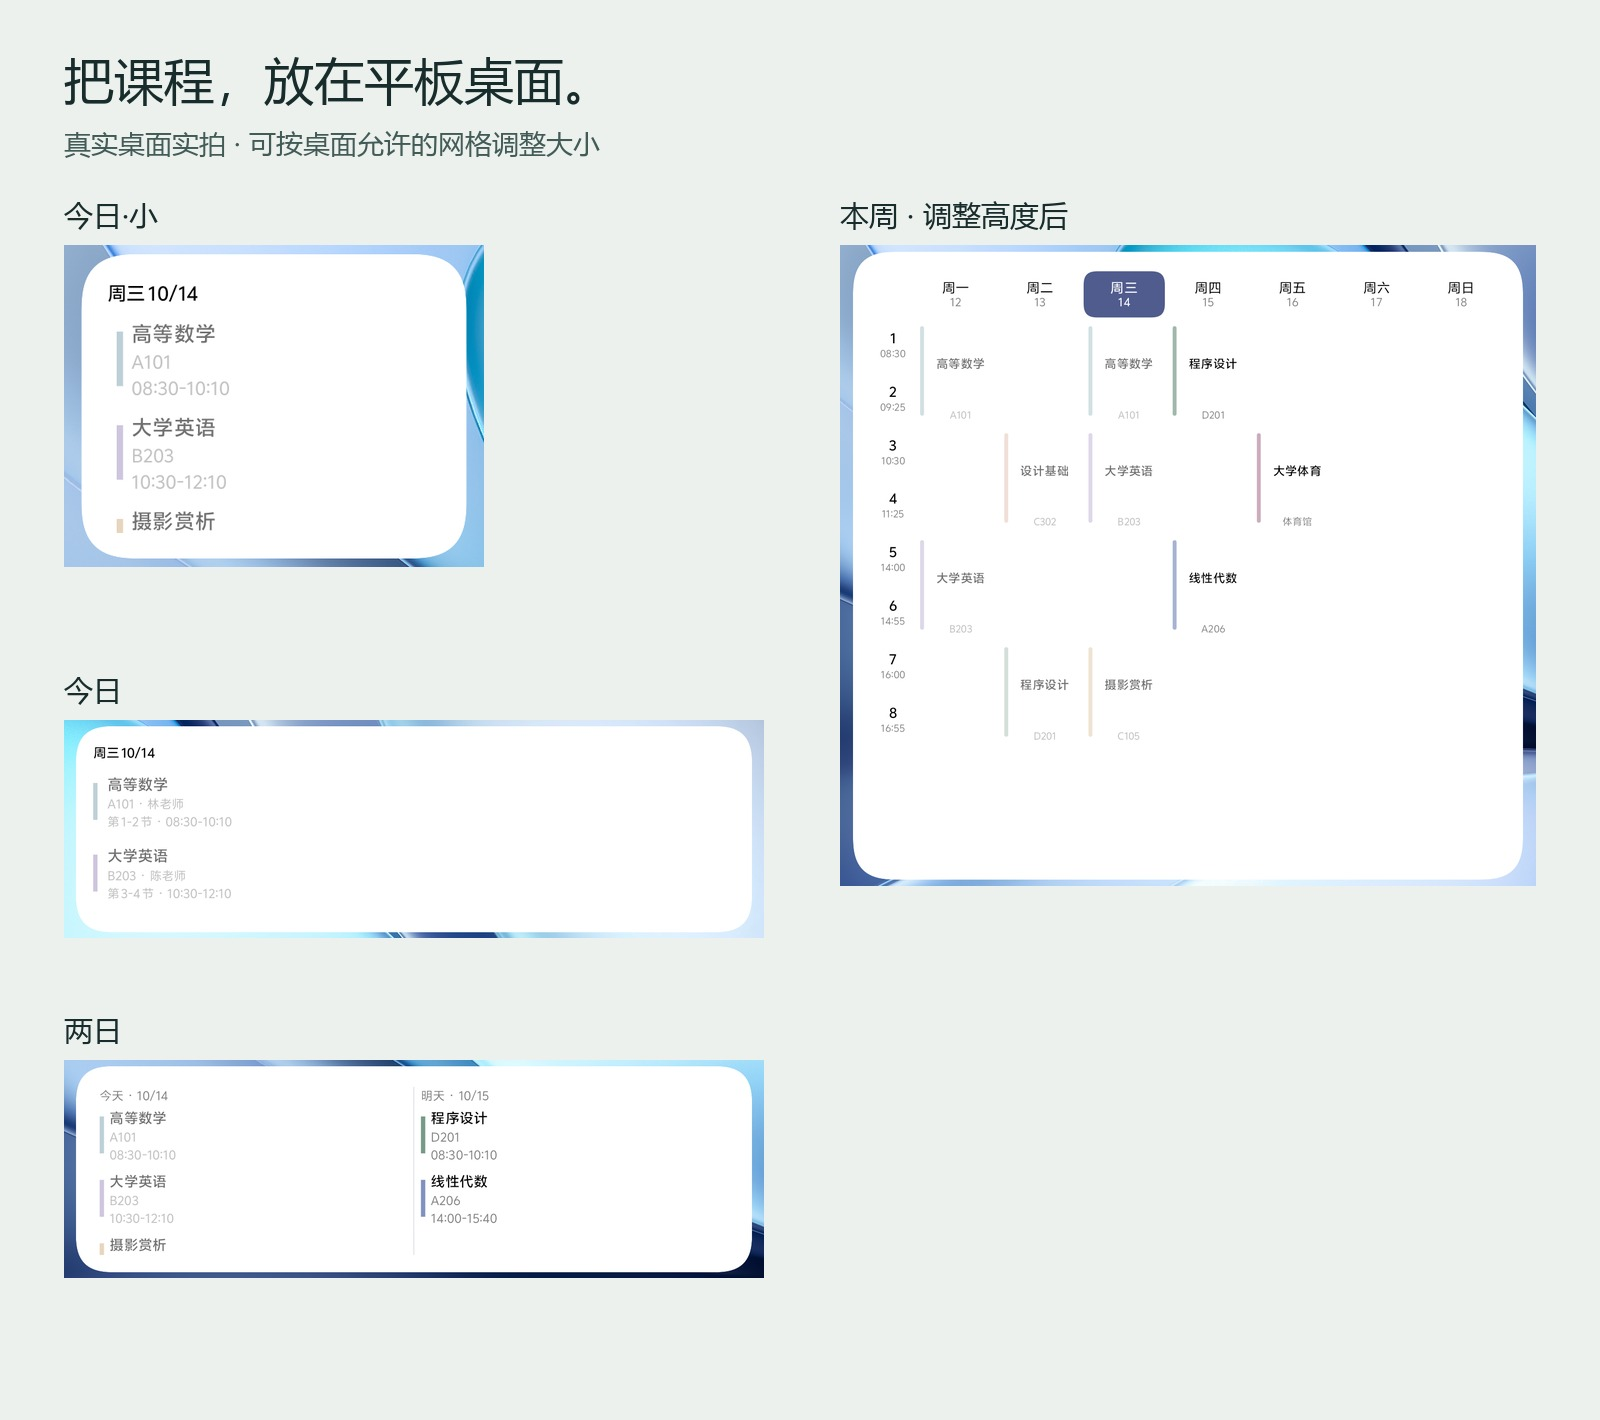
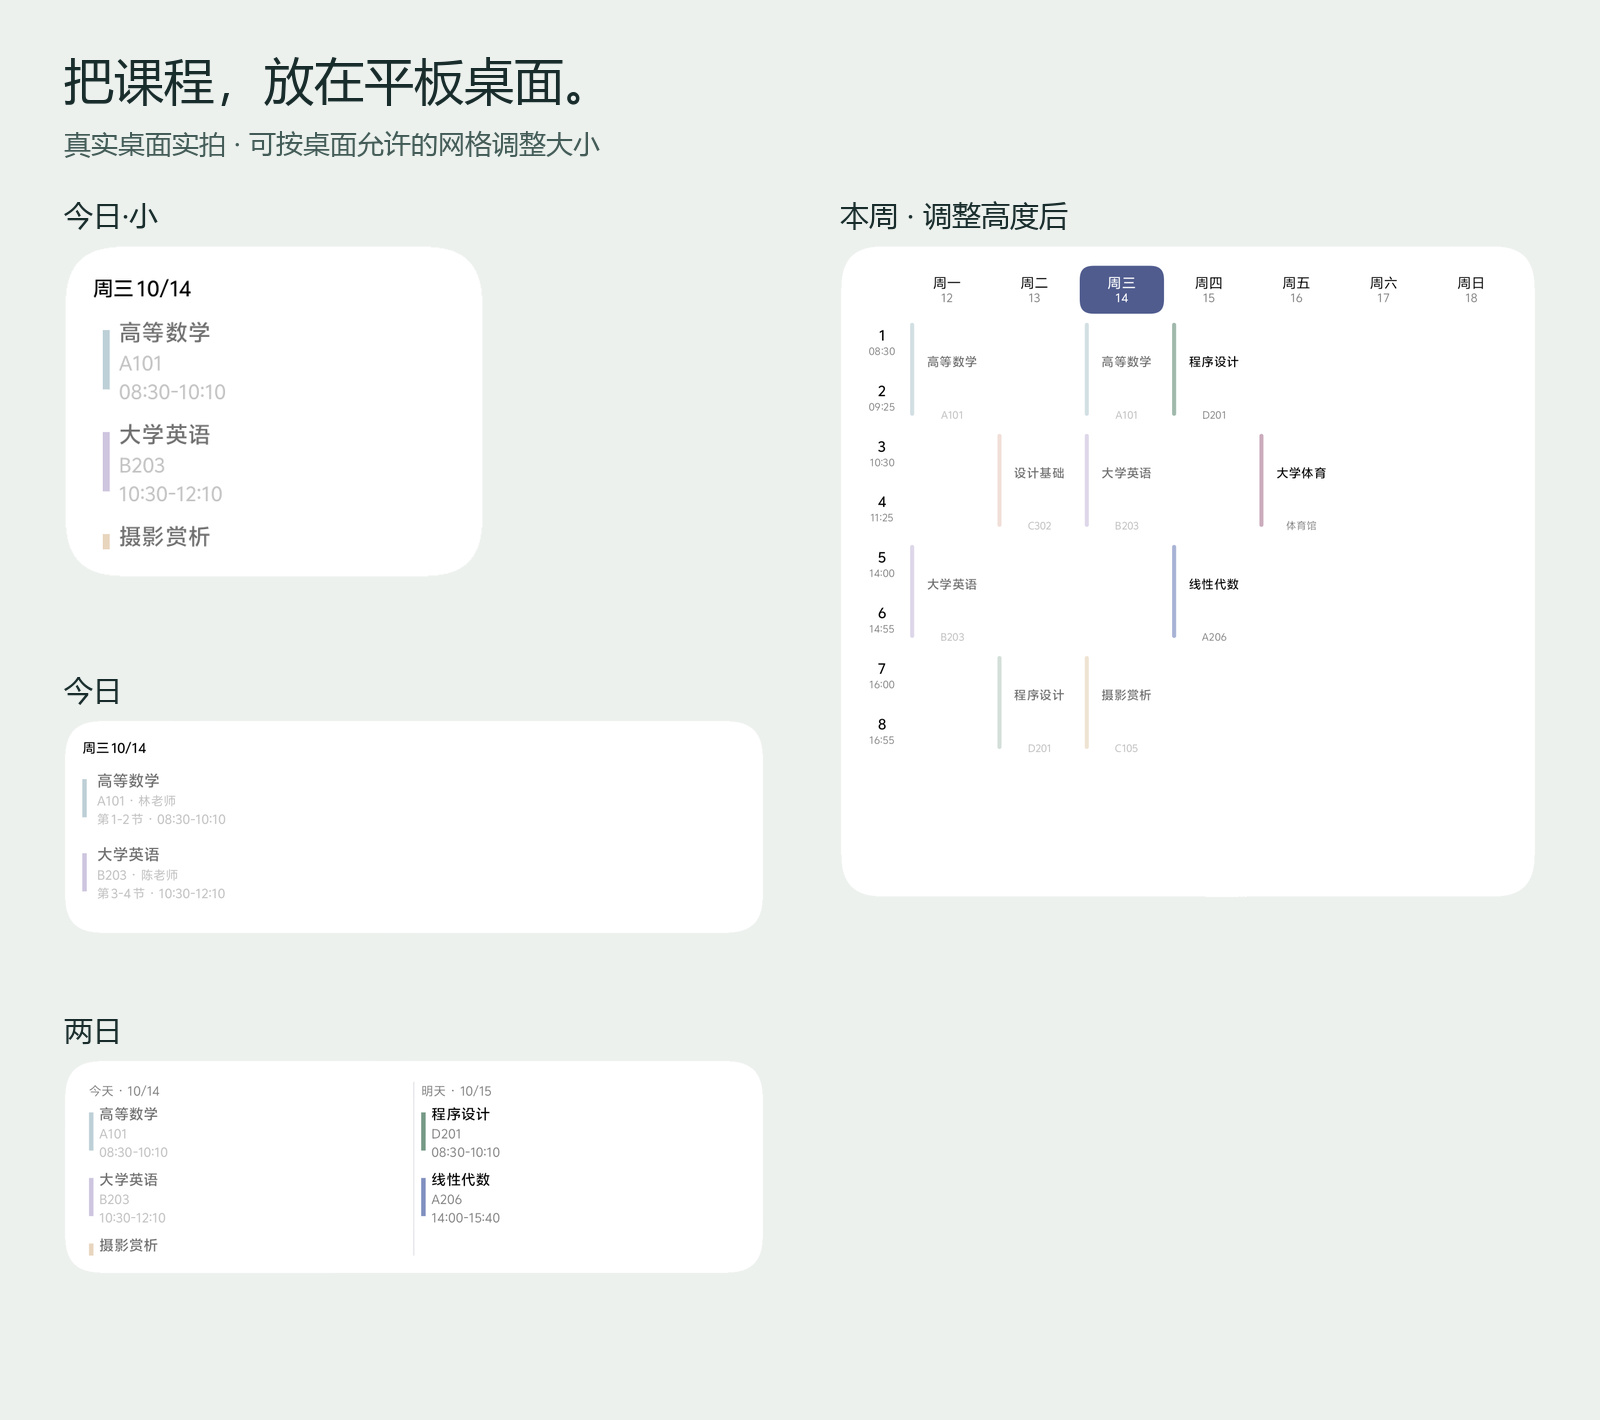
docs: refresh promo film and clean widget showcase crops

diff --git a/readme/build_widget_showcase.py b/readme/build_widget_showcase.py
@@ -1,0 +1,73 @@
+"""Remove launcher wallpaper outside real widget outlines; rebuild README sheets.
+
+Input is the eight explicitly named widget crops in media/v0.1.1.
+Only alpha and the outer transparent margin change; widget RGB is preserved.
+Run after build_showcase.py to keep both workflows consistent.
+Requires Pillow, numpy and opencv-python.
+"""
+from pathlib import Path
+from PIL import Image, ImageDraw, ImageFont, ImageFilter
+import cv2
+import numpy as np
+
+ROOT = Path(__file__).parent / 'media' / 'v0.1.1'
+NAMES = ['widget-small', 'widget-today', 'widget-two-day', 'widget-week',
+         'tablet-widget-small', 'tablet-widget-today',
+         'tablet-widget-two-day', 'tablet-widget-week']
+
+
+def isolate(path):
+    image = Image.open(path).convert('RGBA')
+    # Already processed crops keep their exact alpha; this is idempotent.
+    if image.getchannel('A').getextrema()[0] < 255:
+        return
+    rgb = np.asarray(image)[:, :, :3]
+    level = 255 if path.name.startswith('tablet-') else 219
+    delta = np.abs(rgb.astype(np.int16) - level).max(axis=2)
+    core = np.uint8(delta <= 4) * 255
+    contours, _ = cv2.findContours(core, cv2.RETR_EXTERNAL, cv2.CHAIN_APPROX_SIMPLE)
+    contour = max(contours, key=cv2.contourArea)
+    assert cv2.contourArea(contour) > image.width * image.height * .65, path
+    alpha = np.zeros(core.shape, dtype=np.uint8)
+    cv2.drawContours(alpha, [contour], -1, 255, cv2.FILLED)
+    # Slight inset removes wallpaper-contaminated antialiasing at the old edge.
+    alpha = cv2.erode(alpha, np.ones((3, 3), np.uint8), borderType=cv2.BORDER_CONSTANT, borderValue=0)
+    mask = Image.fromarray(alpha).filter(ImageFilter.GaussianBlur(.5))
+    image.putalpha(mask)
+    image.crop(mask.getbbox()).save(path, optimize=True)
+
+
+def sheet(name, title, subtitle, items, height):
+    canvas = Image.new('RGB', (1600, height), '#edf1ee')
+    draw = ImageDraw.Draw(canvas)
+    font = lambda size: ImageFont.truetype('C:/Windows/Fonts/msyh.ttc', size)
+    draw.text((64, 46), title, font=font(50), fill='#172c2b')
+    draw.text((64, 125), subtitle, font=font(27), fill='#425b56')
+    for filename, label, x, y, width in items:
+        image = Image.open(ROOT / (filename + '.png')).convert('RGBA')
+        image = image.resize((width, round(image.height * width / image.width)), Image.Resampling.LANCZOS)
+        assert y + image.height <= height - 30
+        draw.text((x, y - 50), label, font=font(29), fill='#172c2b')
+        canvas.paste(image, (x, y), image)
+    canvas.save(ROOT / (name + '.jpg'), quality=95, subsampling=0, optimize=True)
+
+
+def main():
+    for name in NAMES:
+        isolate(ROOT / (name + '.png'))
+    sheet('widgets', '不用打开 App，也能心中有数。',
+          '四种桌面小组件 · vivo 手机实际桌面截图', [
+              ('widget-small', '今日·小', 214, 245, 400),
+              ('widget-today', '今日', 64, 865, 700),
+              ('widget-two-day', '两日', 840, 245, 696),
+              ('widget-week', '本周', 840, 675, 696)], 1460)
+    sheet('tablet-widgets', '把课程，放在平板桌面。',
+          '真实桌面实拍 · 可按桌面允许的网格调整大小', [
+              ('tablet-widget-small', '今日·小', 64, 245, 420),
+              ('tablet-widget-today', '今日', 64, 720, 700),
+              ('tablet-widget-two-day', '两日', 64, 1060, 700),
+              ('tablet-widget-week', '本周 · 调整高度后', 840, 245, 696)], 1420)
+
+
+if __name__ == '__main__':
+    main()

diff --git a/readme/build_showcase.py b/readme/build_showcase.py
@@ -3,7 +3,7 @@
 Usage: python readme/build_showcase.py CAPTURE_DIRECTORY
 Never glob the input directory: it may contain private diagnostic screenshots.
 Only outer system bars are cropped; the application UI is never repainted.
-Requires Pillow. Original captures remain outside the repository.
+Requires Pillow, numpy and opencv-python. Original captures remain outside the repository.
 """
 from pathlib import Path
 import sys
@@ -106,3 +106,7 @@ if tablet.exists():
         d.text((x,y-50),label,font=font(29),fill='#172c2b')
         canvas.paste(im.resize((w,round(im.height*w/im.width)),Image.Resampling.LANCZOS),(x,y))
     canvas.save(output/'tablet-widgets.jpg',quality=92,optimize=True)
+
+# Apply the same contour cleanup after any fresh capture rebuild.
+from build_widget_showcase import main as build_widget_showcase
+build_widget_showcase()

diff --git a/readme/media/v0.1.1/README.md b/readme/media/v0.1.1/README.md
@@ -8,11 +8,13 @@
 - 平板：vivo PA2553，Android 16，2800×1968 / 1968×2800，拍摄版本 0.1.1-preview。横竖屏与四种组件均为实体设备，不是模拟器。另存深色横竖屏原图，供查看细节。
 - 示例课表：独立虚构的“秋日校园”，16 周、12 条课程安排；名称、教师、教室均为演示数据。未公开真实教务账号或个人课表。
 - 手机截图裁切状态栏与底部系统手势区域，保留应用内容；拼版标题位于截图之外。原始私人设备截图不进入仓库。
-- 四种组件为手机实际桌面上的手动添加实例，裁切组件矩形范围，保留圆角及角落实际桌面背景。当前可见节次受宿主大小影响，并非全学期课程截图。
+- 四种组件为手机实际桌面上的手动添加实例，沿真实组件外轮廓保留圆角，外部桌面壁纸已设为透明；组件内部像素不重绘。当前可见节次受宿主大小影响，并非全学期课程截图。
 - 背景为本地程序绘制的原创渐变光影，经应用真实图片选择与背景调节后截图；没有后期向界面粘贴背景。展示参数为浓淡 51%、模糊 0%、色彩 100%、位置居中。
 - `brand.gif` 从实际连续点击的 10 秒录屏中选取前 5 秒，裁切品牌卡周围区域并缩放、转为 16 fps GIF；不代表应用的实际帧率。
 - 手机拍摄后恢复原课表选择、浅色、彩色填充、无图片背景；演示课表暂保留以便平板拍摄和复核。
 - 平板拍摄后恢复原课表选择、浅色色条、自动旋转。拍摄时临时拉高本周组件以展示全部 8 节，之后恢复原宿主边界；未删除任何原有绑定。示例课表在两台设备中独立保留，可自行删除。
-- 两段既有品牌影片继续保留原版，包含历史界面与概念动效，不冒充本次实录。
+- README 影片已于 2026-10-22 替换为最终 81.7 秒、16:9 横版宣传片。它使用后续新采集的产品素材与概念动效，与本目录 2026-10-14 的截图批次分开记录，不冒充本批实录。
 
 `readme/build_showcase.py` 使用明确的截图文件白名单生成拼版，避免将整个拍摄目录或私人诊断图复制进仓库。所有展示只证明截图中的布局与功能，不等同于全部设备兼容性验收。
+
+2026-10-22 组件裁切修正：手机与平板各四张组件图按实际外轮廓生成透明蒙版，仅去除圆角外壁纸及边缘混色，并重新生成 widgets.jpg / tablet-widgets.jpg。组件内部原始 RGB 未改变；手机今日列表底部的原生渐隐保持原样，不伪造隐藏内容。readme/build_widget_showcase.py 可单独运行，build_showcase.py 末尾也调用此步骤，避免重新生成时恢复旧问题。

diff --git a/readme/README.en.md b/readme/README.en.md
@@ -9,17 +9,13 @@ Your timetable should give you clarity at a glance. See the shape of your week, 
 
 ## See Classy in motion.
 
-Two cuts. One idea: make time yours. Press play. Sound on.
+All this for a timetable? Sound on — see another side of Classy.
 
-### Brand film · 52 seconds
+### Full promotional film · 81.7 seconds
 
-https://github.com/user-attachments/assets/9a90d1ed-8ecb-4a7f-b33d-9435bee4dce9
+https://github.com/user-attachments/assets/ba42d6dc-2777-4322-be96-59e46d4fb9d7
 
-### Short film · 30.2 seconds
-
-https://github.com/user-attachments/assets/ac7be139-0f8a-4b4d-9d15-6163afba1d20
-
-3:4 format, Chinese and English captions. Films include conceptual motion graphics; actual app screens appear below.
+16:9 landscape, with Chinese and English text. The film combines real product screens with conceptual motion graphics, including spotlighting and course-card assembly. These promotional animations do not represent native app interactions.
 
 ## See the week. Focus on today.
 

diff --git a/README.md b/README.md
@@ -16,17 +16,13 @@
 
 ## 先用一段影片，感受 Classy。
 
-同一个「时间，由你接管」，两种观看节奏。点击播放器，开启声音。
+只是个课表，有必要拍成这样吗？开启声音，看看 Classy 的这一面。
 
-### 完整品牌片 · 52 秒
+### 完整宣传片 · 81.7 秒
 
-https://github.com/user-attachments/assets/9a90d1ed-8ecb-4a7f-b33d-9435bee4dce9
+https://github.com/user-attachments/assets/ba42d6dc-2777-4322-be96-59e46d4fb9d7
 
-### 精华短片 · 30.2 秒
-
-https://github.com/user-attachments/assets/ac7be139-0f8a-4b4d-9d15-6163afba1d20
-
-<sub>3:4 画幅 · 中英双语字幕。影片含概念化动效，以展示品牌与产品理念；实际界面见下方截图。</sub>
+<sub>16:9 横屏 · 中英双语文案。影片使用真实产品界面，并包含课程展开、聚光与归位等概念化动效；这些宣传动画不代表 App 的原生操作效果。</sub>
 
 ## 整周有序，今天清楚。
 
